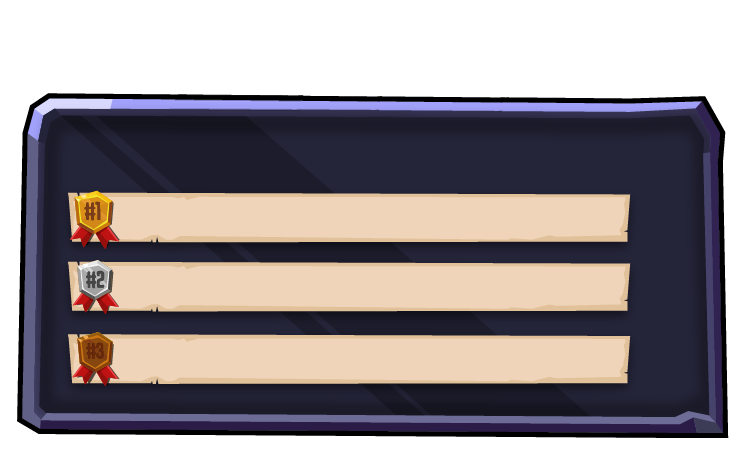
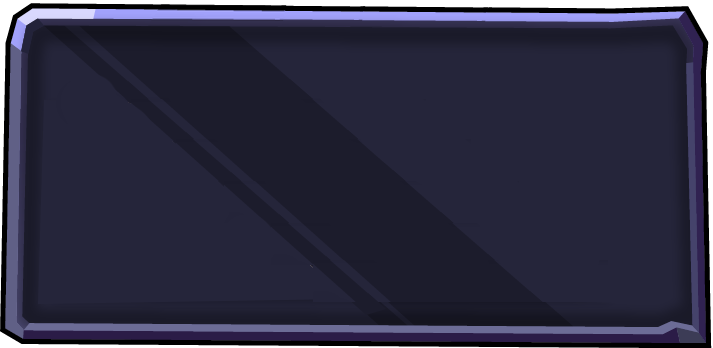
Update-UI-v7.2

diff --git a/components/SectionSource/index.js b/components/SectionSource/index.js
@@ -64,100 +64,26 @@ const SectionSource = ({
           </div>
           <div className="section-title-button">
             <h3>Bảng thành tích</h3>
-            <nav className="section-game-mode">
-              <div className="nav nav-tabs" id="nav-tab" role="tablist">
-                <a
-                  className="nav-item nav-link active"
-                  id="nav-home-tab"
-                  data-toggle="tab"
-                  href="#nav-home"
-                  role="tab"
-                  aria-controls="nav-home"
-                  aria-selected="true"
-                >
-                  EASY
-                </a>
-                <a
-                  className="nav-item nav-link"
-                  id="nav-profile-tab"
-                  data-toggle="tab"
-                  href="#nav-profile"
-                  role="tab"
-                  aria-controls="nav-profile"
-                  aria-selected="false"
-                >
-                  NORMAL
-                </a>
-                <a
-                  className="nav-item nav-link"
-                  id="nav-contact-tab"
-                  data-toggle="tab"
-                  href="#nav-contact"
-                  role="tab"
-                  aria-controls="nav-contact"
-                  aria-selected="false"
-                >
-                  HARD
-                </a>
-              </div>
-            </nav>
-            <div
-              className="tab-content section-list-source"
-              id="nav-tabContent"
-            >
-              <div
-                className="tab-pane fade show active"
-                id="nav-home"
-                role="tabpanel"
-                aria-labelledby="nav-home-tab"
-              >
-                <ul>
-                  <li>
-                    <a href>NGƯỜI CHƠI</a>
-                  </li>
-                  <li>
-                    <a href>NGƯỜI CHƠI</a>
-                  </li>
-                  <li>
-                    <a href>NGƯỜI CHƠI</a>
-                  </li>
-                </ul>
-              </div>
-              <div
-                className="tab-pane fade"
-                id="nav-profile"
-                role="tabpanel"
-                aria-labelledby="nav-profile-tab"
-              >
-                <ul>
-                  <li>
-                    <a href>NGƯỜI CHƠI Normal</a>
-                  </li>
-                  <li>
-                    <a href>NGƯỜI CHƠI Normal</a>
-                  </li>
-                  <li>
-                    <a href>NGƯỜI CHƠI Normal</a>
-                  </li>
-                </ul>
-              </div>
-              <div
-                className="tab-pane fade"
-                id="nav-contact"
-                role="tabpanel"
-                aria-labelledby="nav-contact-tab"
-              >
-                <ul>
-                  <li>
-                    <a href>NGƯỜI CHƠI Hard</a>
-                  </li>
-                  <li>
-                    <a href>NGƯỜI CHƠI Hard</a>
-                  </li>
-                  <li>
-                    <a href>NGƯỜI CHƠI Hard</a>
-                  </li>
-                </ul>
+            <div className="section-title-button__frames">
+              <div className="section-title-button__frames_inner">
+                <div className="section-game-mode" id="nav-tab" role="tablist">
+                  <a className="nav-item nav-link active">EASY</a>
+                  <a className="nav-item nav-link">NORMAL</a>
+                  <a className="nav-item nav-link">HARD</a>
+                </div>
+                <div className="section-list-source">
+                  <ul>
+                    <li className="rank_1">
+                      <a>NGƯỜI CHƠI</a>
+                    </li>
+                    <li className="rank_2">
+                      <a href>NGƯỜI CHƠI</a>
+                    </li>
+                    <li className="rank_3">
+                      <a href>NGƯỜI CHƠI</a>
+                    </li>
+                  </ul>
+                </div>
               </div>
             </div>
           </div>

diff --git a/scss/section-news.scss b/scss/section-news.scss
@@ -19,7 +19,7 @@
   @include middle {
     background-size: cover;
   }
-  @include overload{
+  @include overload {
     height: 100vh;
     align-items: center;
     background-size: cover;
@@ -124,25 +124,35 @@
 }
 
 .section-title-button {
-  position: relative;
-  margin: 0 auto;
-  background: url("/static/assets/img/frames-source.png");
-  background-size: contain !important;
-  background-repeat: no-repeat;
-  width: 545px;
-  height: 370px;
-  @include mobile {
-    width: 100%;
-    height: 228px;
-    background-size: contain !important;
-    background-repeat: no-repeat;
+  @include middle {
+    width: 50%;
   }
   @include tablet {
+    width: 70%;
+  }
+  @include mobile {
     width: 100%;
-    height: 254px;
-    background-size: contain !important;
+  }
+  position: relative;
+  margin: 0 auto;
+  .section-title-button__frames {
+    @include mobile {
+      background-position: top;
+    }
+    margin-top: -15px;
+    width: 100%;
+    height: 250px;
+    background-size: contain;
     background-repeat: no-repeat;
     background-position: center;
+    background-image: url("/static/assets/img/frames-source.png");
+    position: relative;
+    .section-title-button__frames_inner {
+      position: absolute;
+      top: 10px;
+      left: 0;
+      right: 0;
+    }
   }
 }
 .section-title-button ul li {
@@ -162,12 +172,12 @@
   font-size: 35px;
 }
 .section-title-button h3 {
-  @include mobile {
-    font-size: 30px;
-    background-size: 220px;
-  }
   @include tablet {
     font-size: 30px;
+  }
+  @include mobile {
+    font-size: 25px;
+    background-size: 180px;
   }
   color: $YELLOW-SENCOND-COLOR;
   font-size: 40px;
@@ -212,6 +222,8 @@
   justify-content: center;
 }
 .section-game-mode {
+  display: flex;
+  justify-content: center;
   a {
     @include mobile {
       font-size: 27px !important;
@@ -220,35 +232,37 @@
       font-size: 30px;
     }
   }
-  @include mobile {
-    position: absolute;
-    left: 50%;
-    bottom: 50%;
-    transform: translate(-52%, -76%);
-  }
-  @include tablet {
-    position: absolute;
-    left: 50%;
-    bottom: 50%;
-    transform: translate(-52%, -76%);
-  }
 }
 .section-list-source {
-  transform: translate(-147%, -33%);
-  position: absolute;
-  left: 50%;
-  top: 50%;
-  @include tablet {
-    transform: translate(-230%, -20%);
-    position: absolute;
-    left: 50%;
-    top: 50%;
-  }
-  @include mobile {
-    position: absolute;
-    left: 50%;
-    bottom: 50%;
-    transform: translate(-142%, -13px);
+  display: flex;
+  margin: 0 10%;
+  ul {
+    width: 100%;
+    background-size: cover;
+    @include middle {
+    }
+
+    .rank_1 {
+      background-image: url("/static/assets/img/rank_1.png");
+      background-repeat: no-repeat;
+      @include mobile {
+        background-size: contain;
+      }
+    }
+    .rank_2 {
+      background-image: url("/static/assets/img/rank_2.png");
+      background-repeat: no-repeat;
+      @include mobile {
+        background-size: contain;
+      }
+    }
+    .rank_3 {
+      background-image: url("/static/assets/img/rank_3.png");
+      background-repeat: no-repeat;
+      @include mobile {
+        background-size: contain;
+      }
+    }
   }
   ul li {
     padding: 3px 0;
@@ -256,17 +270,18 @@
       padding: 0 !important;
     }
     @include tablet {
-      padding: 5px 0;
+      padding: 11px 0;
     }
   }
   a {
     color: black;
     line-height: 1.3;
+    margin: 0 15%;
     @include mobile {
       font-size: 23px !important;
     }
     @include tablet {
-      font-size: 23px !important;
+      font-size: 25px !important;
     }
   }
 }

diff --git a/scss/custom.scss b/scss/custom.scss
@@ -27,6 +27,7 @@ hr {
 }
 .fix-rs {
   display: flex;
+  height: 100%;
   max-width: 1520px;
   margin: 0 auto;
   @include mobile {
@@ -160,13 +161,13 @@ hr {
 .character-section {
   height: 100vh;
   @include middle {
-    height: 100vh;
+    height: 800px;
   }
   @include tablet {
-    height: 100vh;
+    height: 800px;
   }
   @include mobile {
-    height: 100vh;
+    height: 500px;
   }
   &__container {
     width: 100%;
@@ -191,7 +192,8 @@ hr {
       height: 100vh;
     }
     @include mobile {
-      height: 100vh;
+      height: 100%;
+      padding-bottom: 65px;
     }
   }
 
@@ -216,9 +218,8 @@ hr {
       align-items: center;
     }
     @include mobile {
-      height: 100vh;
+      height: 100%;
       align-items: center;
-      padding: 0 25px;
     }
   }
 
@@ -274,7 +275,7 @@ hr {
     justify-content: center;
   }
   @include mobile {
-    height: 100vh;
+    height: 100%;
     width: 50% !important;
     justify-content: center;
   }
@@ -323,7 +324,7 @@ hr {
       width: 120px;
     }
     @include mobile {
-      width: 70px;
+      width: 90px;
     }
   }
   .btn-prev {
@@ -382,7 +383,7 @@ hr {
     }
     @include mobile {
       top: 15%;
-      width: 220px;
+      width: 200px;
     }
   }
 }
@@ -401,7 +402,7 @@ hr {
     height: 100vh;
   }
   @include mobile {
-    height: 100vh;
+    height: 500px;
   }
   padding-top: 60px;
   width: 100%;

diff --git a/components/SectionSpecialMod/index.js b/components/SectionSpecialMod/index.js
@@ -12,7 +12,7 @@ const SectionSpecialMod = (props) => {
   //! Render
   return (
     <>
-      <Title />
+      <Title label="MODE CHƠI ĐẶC BIỆT" />
       <div className="section-special-mod">
         <Slider3D
           slidesProps={[
